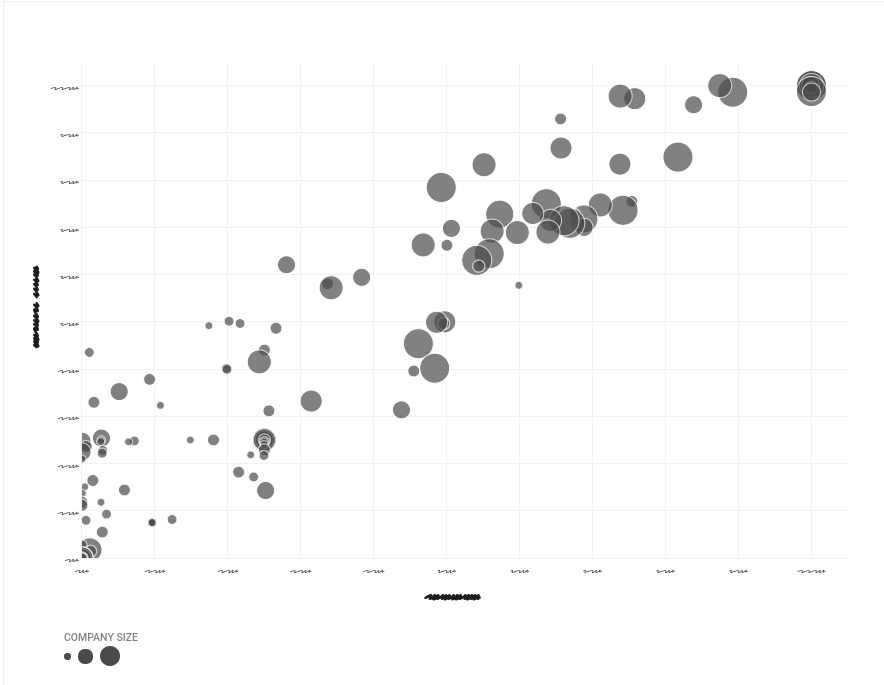
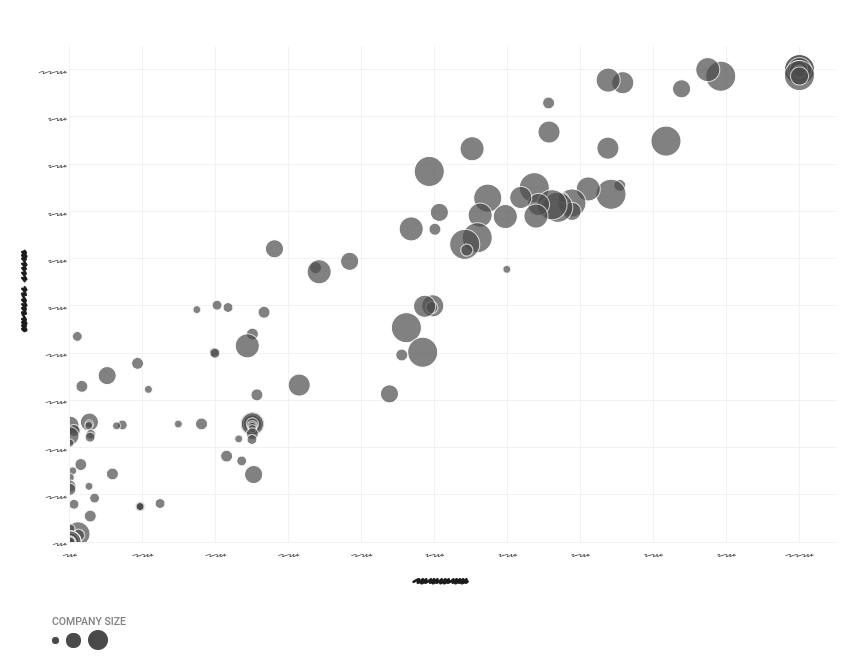
market analysis styling

diff --git a/src/components/MarketAnalysis.vue b/src/components/MarketAnalysis.vue
@@ -1,43 +1,43 @@
 <template>
-  <section>
-    <MarketFilter :filterOptions="filterOptions" :filterDates="filterDates"/>
-    <MarketSearch />
-    <MarketList :marketData="marketData"/>
+  <MarketFilter :filterOptions="filterOptions" :filterDates="filterDates" />
+  <MarketSearch />
+  <main class="market-analysis">
+    <MarketList :marketData="marketData" />
     <MarketChart />
-  </section>
+  </main>
 </template>
 
 <script>
-import MarketFilter from './Market/MarketFilter.vue'
-import MarketSearch from './Market/MarketSearch.vue'
-import MarketList from './Market/MarketList.vue'
-import MarketChart from './Market/MarketChart.vue'
+import MarketFilter from "./Market/MarketFilter.vue";
+import MarketSearch from "./Market/MarketSearch.vue";
+import MarketList from "./Market/MarketList.vue";
+import MarketChart from "./Market/MarketChart.vue";
 
 export default {
-//  props: {
-//    car: Object,
-//  },
+  //  props: {
+  //    car: Object,
+  //  },
   components: {
     MarketFilter,
     MarketSearch,
     MarketList,
-    MarketChart
+    MarketChart,
   },
   data() {
-    return {}
+    return {};
   },
   created() {},
   methods: {},
   computed: {
-    filterOptions(){
-      return this.$store.getters.filterOptions
+    filterOptions() {
+      return this.$store.getters.filterOptions;
     },
-    filterDates(){
-      return this.$store.getters.filterDates
+    filterDates() {
+      return this.$store.getters.filterDates;
     },
-    marketData(){
-      return this.$store.getters.marketData
+    marketData() {
+      return this.$store.getters.marketData;
     },
   },
-}
+};
 </script>

diff --git a/src/assets/styles/components/_market-analysis.scss b/src/assets/styles/components/_market-analysis.scss
@@ -1,0 +1,26 @@
+.market-analysis {
+    @include flex(row, space-between, stretch);
+    gap: 20px;
+
+    &__chart {
+        flex: 1 1 0px;
+        box-shadow: 0px 0px 7px 0px $pClr3;
+        object-fit: contain;
+    }
+}
+
+//ADD
+// @media (max-width: 1350px) {
+//     .market-analysis {
+//         &__chart {
+//             width: 500px;
+//         }
+//     }
+// }
+
+
+@media (min-width: break-normal) {
+}
+
+@media (min-width: break-wide) {
+}

diff --git a/src/components/Market/MarketChart.vue b/src/components/Market/MarketChart.vue
@@ -1,22 +1,15 @@
 <template>
-  <section>
-    market chart
-  </section>
+  <img src="../../assets/images/chart.png" class="market-analysis__chart" alt="" />
 </template>
 
 <script>
-// import appHeader from './components/app-header.vue'
-
 export default {
-//  props: {
-//    car: Object,
-//  },
   components: {},
   data() {
-    return {}
+    return {};
   },
   created() {},
   methods: {},
   computed: {},
-}
+};
 </script>

diff --git a/src/assets/styles/components/market/_market-list.scss b/src/assets/styles/components/market/_market-list.scss
@@ -1,6 +1,7 @@
 .market-list{
     padding: 30px;
-    box-shadow: 0px 0px 1px 0px $pClr3;
+    box-shadow: 0px 0px 7px 0px $pClr3;
+    flex: 1 1 0px;
     
     &__header{
         margin: 0 10px 0;
@@ -24,6 +25,7 @@
         flex-direction: column;
         gap: 10px;
         overflow: auto;
-        max-height: 300px;
+        max-height: calc(100vh - 340px);
+        // max-height: calc(100vh - 240px);
     }
 }

diff --git a/src/store/modules/market-module.js b/src/store/modules/market-module.js
@@ -1,6 +1,6 @@
 export default {
   state: {
-    marketData: _makeRandomData(10),
+    marketData: _makeRandomData(30),
     filterOptions: [
       {
         name: "companies",

diff --git a/src/assets/styles/basics/_base.scss b/src/assets/styles/basics/_base.scss
@@ -52,5 +52,6 @@ input {
 }
 
 .app {
-  padding: 20px;
+  margin: 0 20px;
+  height: 100vh
 }
